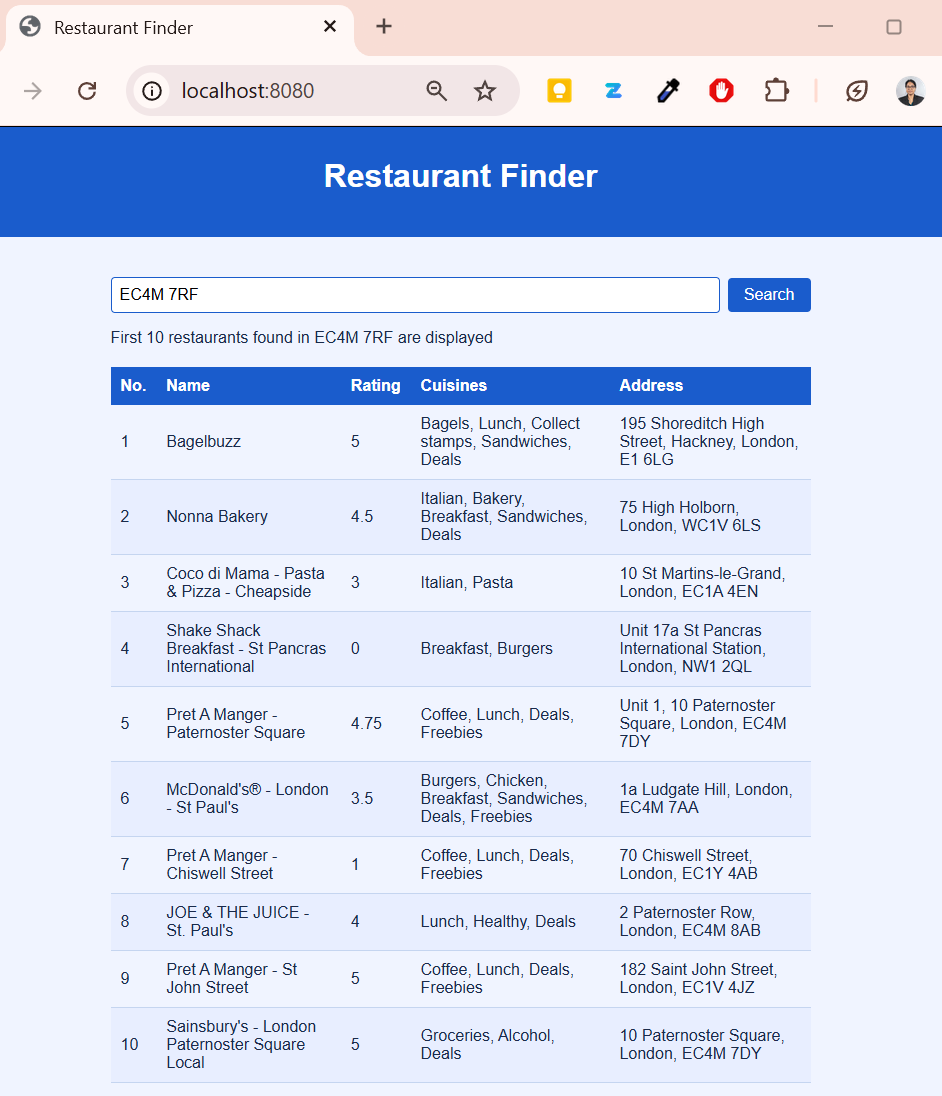
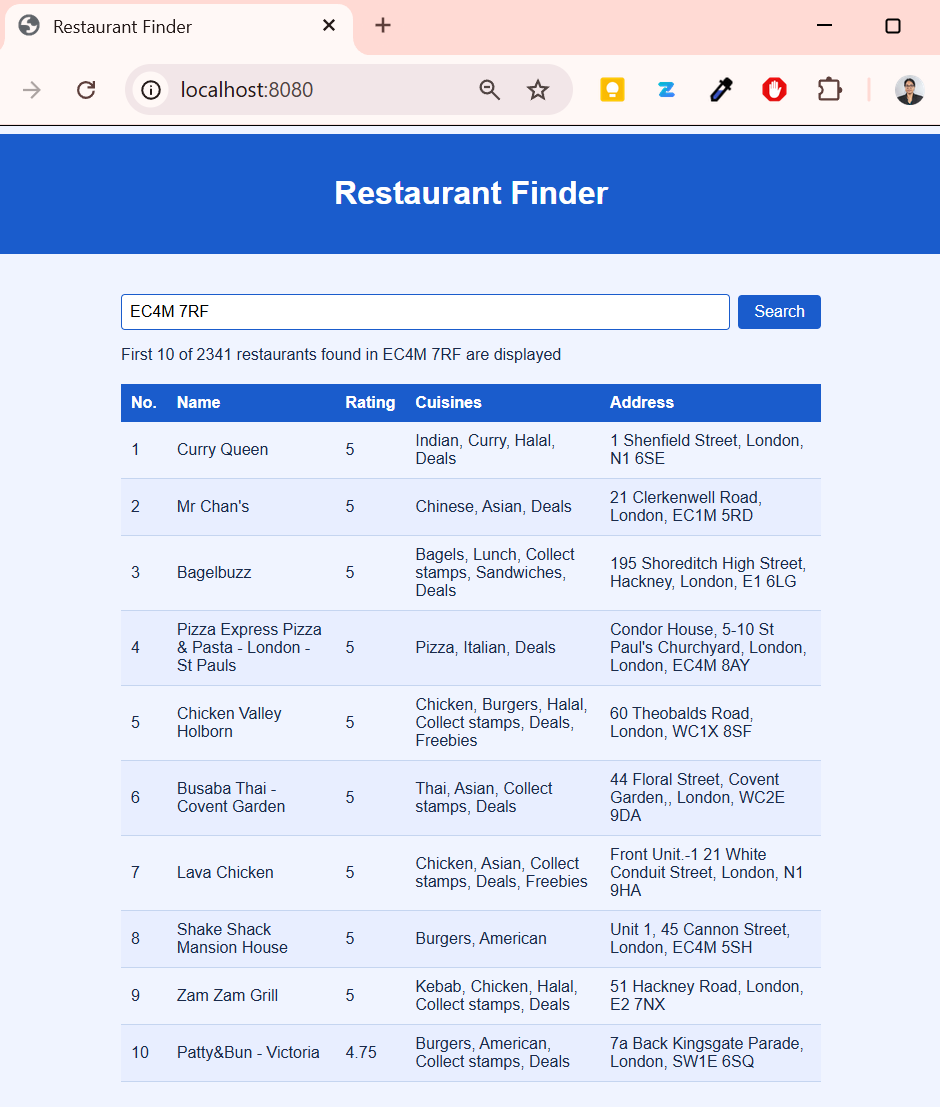
Added RestaurantResponse to return total count for accurate display

diff --git a/src/main/resources/static/app.js b/src/main/resources/static/app.js
@@ -22,15 +22,17 @@ async function performSearch() {
             results.textContent = '';
             return;
         }
-        const restaurants = await res.json();
+        const { restaurants, total } = await res.json();
 
         if (restaurants.length === 0) {
             results.textContent = 'No restaurants found.';
             return;
         }
-        let html = restaurants.length < 10
-            ? `<p>All ${restaurants.length} restaurants found in ${postcode.toUpperCase()} are displayed</p>`
-            : `<p>First 10 restaurants found in ${postcode.toUpperCase()} are displayed</p>`;
+        const label = total === 1 ? 'restaurant' : 'restaurants';
+
+        let html = restaurants.length < total
+            ? `<p>First ${restaurants.length} of ${total} restaurants found in ${postcode.toUpperCase()} are displayed</p>`
+            : `<p>All ${total} ${label} found in ${postcode.toUpperCase()} are displayed</p>`;
         html += '<table><thead><tr><th>No.</th><th>Name</th><th>Rating</th><th>Cuisines</th><th>Address</th></tr></thead><tbody>';
 
         for (let i = 0; i < restaurants.length; i++) {

diff --git a/src/test/java/dev/sankha/restaurant_finder/service/RestaurantServiceTest.java b/src/test/java/dev/sankha/restaurant_finder/service/RestaurantServiceTest.java
@@ -6,6 +6,7 @@ import dev.sankha.restaurant_finder.model.api.Cuisine;
 import dev.sankha.restaurant_finder.model.api.Rating;
 import dev.sankha.restaurant_finder.model.api.Restaurant;
 import dev.sankha.restaurant_finder.model.dto.RestaurantDTO;
+import dev.sankha.restaurant_finder.model.dto.RestaurantResponse;
 import org.junit.jupiter.api.Test;
 
 import java.util.List;
@@ -31,41 +32,41 @@ class RestaurantServiceTest {
     // Verifies the service returns all restaurants the client provides
     @Test
     void returnsAllRestaurantsFromClient() {
-        List<RestaurantDTO> result = serviceWith(List.of(
+        RestaurantResponse response = serviceWith(List.of(
                 restaurant("Pizza Place"),
                 restaurant("Burger Shop"),
                 restaurant("Sushi World")
         )).getRestaurants("EC4M 7RF");
 
-        assertEquals(3, result.size());
+        assertEquals(3, response.restaurants().size());
     }
 
     // Verifies the service handles an empty response without errors
     @Test
     void returnsEmptyWhenClientReturnsEmpty() {
-        assertTrue(serviceWith(List.of()).getRestaurants("CT1 2EH").isEmpty());
+        assertTrue(serviceWith(List.of()).getRestaurants("CT1 2EH").restaurants().isEmpty());
     }
 
     // Verifies the restaurant name is correctly mapped to the DTO
     @Test
     void returnsSingleRestaurantByName() {
-        List<RestaurantDTO> result = serviceWith(List.of(
+        RestaurantResponse response = serviceWith(List.of(
                 restaurant("Noodle House")
         )).getRestaurants("EC4M 7RF");
 
-        assertEquals("Noodle House", result.get(0).name());
+        assertEquals("Noodle House", response.restaurants().get(0).name());
     }
 
     // Verifies the service does not reorder restaurants returned by the client
     @Test
     void preservesOrderOfRestaurantsFromClient() {
-        List<RestaurantDTO> result = serviceWith(List.of(
+        RestaurantResponse response = serviceWith(List.of(
                 restaurant("Alpha"),
                 restaurant("Beta"),
                 restaurant("Gamma")
         )).getRestaurants("EC4M 7RF");
 
-        List<String> names = result.stream().map(RestaurantDTO::name).toList();
+        List<String> names = response.restaurants().stream().map(RestaurantDTO::name).toList();
         assertEquals(List.of("Alpha", "Beta", "Gamma"), names);
     }
 
@@ -76,7 +77,7 @@ class RestaurantServiceTest {
                 List.of(new Cuisine("Italian"), new Cuisine("Pizza")),
                 new Address("London", "1 High Street", "EC4M 7RF"));
 
-        RestaurantDTO dto = serviceWith(List.of(r)).getRestaurants("EC4M").get(0);
+        RestaurantDTO dto = serviceWith(List.of(r)).getRestaurants("EC4M").restaurants().get(0);
 
         assertEquals(List.of("Italian", "Pizza"), dto.cuisines());
     }
@@ -88,7 +89,7 @@ class RestaurantServiceTest {
                 List.of(new Cuisine("Japanese")),
                 new Address("London", "2 Low Street", "EC4M 7RF"));
 
-        RestaurantDTO dto = serviceWith(List.of(r)).getRestaurants("EC4M 7RF").get(0);
+        RestaurantDTO dto = serviceWith(List.of(r)).getRestaurants("EC4M 7RF").restaurants().get(0);
 
         assertEquals(4.7, dto.rating());
     }
@@ -100,7 +101,7 @@ class RestaurantServiceTest {
                 List.of(new Cuisine("Japanese")),
                 new Address("Canterbury", "53 St Peter St", "CT1 2BE"));
 
-        RestaurantDTO dto = serviceWith(List.of(r)).getRestaurants("CT1 2BE").get(0);
+        RestaurantDTO dto = serviceWith(List.of(r)).getRestaurants("CT1 2BE").restaurants().get(0);
 
         assertEquals("53 St Peter St, Canterbury, CT1 2BE", dto.address());
     }
@@ -112,34 +113,35 @@ class RestaurantServiceTest {
                 List.of(),
                 new Address("London", "10 Bread St", "EC4M 7RF"));
 
-        RestaurantDTO dto = serviceWith(List.of(r)).getRestaurants("EC4M 7RF").get(0);
+        RestaurantDTO dto = serviceWith(List.of(r)).getRestaurants("EC4M 7RF").restaurants().get(0);
 
         assertTrue(dto.cuisines().isEmpty());
     }
 
-    // Verifies only the first 10 restaurants are returned when the client provides 11
+    // Verifies only the first 10 restaurants are returned when the client provides 11,
+    // and total reflects the full count before limiting
     @Test
     void returnsOnlyFirstTenWhenClientProvidesEleven() {
         List<Restaurant> eleven = IntStream.rangeClosed(1, 11)
                 .mapToObj(i -> restaurant("Restaurant " + i))
                 .toList();
 
-        List<RestaurantDTO> result = serviceWith(eleven).getRestaurants("EC4M 7RF");
-
-        assertEquals(10, result.size());
+        RestaurantResponse response = serviceWith(eleven).getRestaurants("EC4M 7RF");
+        assertEquals(11, response.total());
+        assertEquals(10, response.restaurants().size());
     }
 
-    // Verifies all restaurants are returned when the client provides fewer than 10
+    // Verifies all restaurants are returned when the client provides fewer than or equal to 10,
+    // and total matches the actual count
     @Test
     void returnsAllWhenLessThanTen() {
         List<Restaurant> seven = IntStream.rangeClosed(1, 7)
                 .mapToObj(i -> restaurant("Restaurant " + i))
                 .toList();
 
-        List<RestaurantDTO> result = serviceWith(seven).getRestaurants("EC4M 7RF");
-
-        assertEquals(7, result.size());
+        RestaurantResponse response = serviceWith(seven).getRestaurants("EC4M 7RF");
+        assertEquals(7, response.total());
+        assertEquals(7, response.restaurants().size());
     }
-
 
 }

diff --git a/src/main/java/dev/sankha/restaurant_finder/service/RestaurantService.java b/src/main/java/dev/sankha/restaurant_finder/service/RestaurantService.java
@@ -4,6 +4,7 @@ import dev.sankha.restaurant_finder.client.RestaurantClient;
 import dev.sankha.restaurant_finder.model.api.Cuisine;
 import dev.sankha.restaurant_finder.model.api.Restaurant;
 import dev.sankha.restaurant_finder.model.dto.RestaurantDTO;
+import dev.sankha.restaurant_finder.model.dto.RestaurantResponse;
 import org.slf4j.Logger;
 import org.slf4j.LoggerFactory;
 import org.springframework.stereotype.Service;
@@ -19,13 +20,14 @@ public class RestaurantService {
         this.restaurantClient = restaurantClient;
     }
 
-    public List<RestaurantDTO> getRestaurants(String postcode) {
+    public RestaurantResponse getRestaurants(String postcode) {
         log.info("RestaurantService - Fetching restaurants for postcode: {}", postcode);
-        return restaurantClient.fetchRestaurants(postcode)
-                .stream()
+        List<Restaurant> all = restaurantClient.fetchRestaurants(postcode);
+        List<RestaurantDTO> limited = all.stream()
                 .limit(10)
                 .map(this::toDTO)
                 .toList();
+        return new RestaurantResponse(limited, all.size());
     }
 
     private RestaurantDTO toDTO(Restaurant restaurant) {

diff --git a/src/main/java/dev/sankha/restaurant_finder/controller/RestaurantController.java b/src/main/java/dev/sankha/restaurant_finder/controller/RestaurantController.java
@@ -1,6 +1,7 @@
 package dev.sankha.restaurant_finder.controller;
 
 import dev.sankha.restaurant_finder.model.dto.RestaurantDTO;
+import dev.sankha.restaurant_finder.model.dto.RestaurantResponse;
 import dev.sankha.restaurant_finder.service.RestaurantService;
 import org.slf4j.Logger;
 import org.slf4j.LoggerFactory;
@@ -20,11 +21,11 @@ public class RestaurantController {
         this.restaurantService = restaurantService;
     }
     @GetMapping("/restaurants/{postcode}")
-    public List<RestaurantDTO> getRestaurantsByPostcode(@PathVariable String postcode) {
+    public RestaurantResponse getRestaurantsByPostcode(@PathVariable String postcode) {
         log.info("RestaurantController - Received request for restaurants in postcode: {}", postcode);
-        List<RestaurantDTO> restaurants = restaurantService.getRestaurants(postcode);
-        displayConsole(restaurants, postcode);
-        return restaurants;
+        RestaurantResponse response = restaurantService.getRestaurants(postcode);
+        displayConsole(response.restaurants(), postcode);
+        return response;
     }
 
     private void displayConsole(List<RestaurantDTO> restaurants, String postcode) {

diff --git a/src/main/java/dev/sankha/restaurant_finder/model/dto/RestaurantResponse.java b/src/main/java/dev/sankha/restaurant_finder/model/dto/RestaurantResponse.java
@@ -1,0 +1,7 @@
+package dev.sankha.restaurant_finder.model.dto;
+
+import java.util.List;
+
+public record RestaurantResponse(List<RestaurantDTO> restaurants,
+                                 int total) {
+}

diff --git a/README.md b/README.md
@@ -13,7 +13,7 @@ Built as part of the Just Eat Takeaway Early Careers Software Engineering Progra
 **Acceptance criteria:**
 - Given a valid UK postcode, the application displays up to 10 restaurants
 - Each restaurant shows its name, cuisines, rating (as a number), and address
-- Given a postcode with no restaurants, the application shows a clear "no results" message
+- Given a postcode with no restaurants, the application shows a clear "No restaurants found." message
 - Given an invalid or failed request, the application shows a meaningful error message
 - Postcodes entered with or without spaces are both handled correctly
 
@@ -115,7 +115,7 @@ Example postcodes to try: `EC4M 7RF`, `CT1 2EH`, `SW1A 1AA`, `BS1 4DJ`, `M16 0RA
 ```
 No restaurants found.
 ```
-**If fewer than 10 restaurants are found :**
+**If fewer than or equal to 10 restaurants are found :**
 
 All results are shown.
 
@@ -143,34 +143,34 @@ Example:
 curl http://localhost:8080/restaurants/EC4M7RF
 ```
 
-Example response:
+Example response (showing 2 of 10 restaurant results):
 ```json
-[
+{
+  "restaurants": [
     {
-        "name": "Bagelbuzz",
-        "cuisines": [
-            "Bagels",
-            "Lunch",
-            "Collect stamps",
-            "Sandwiches",
-            "Deals"
-        ],
-        "rating": 5.0,
-        "address": "195 Shoreditch High Street, Hackney, London, E1 6LG"
+      "name": "Curry Queen",
+      "cuisines": [
+        "Indian",
+        "Curry",
+        "Halal",
+        "Deals"
+      ],
+      "rating": 5.0,
+      "address": "1 Shenfield Street, London, N1 6SE"
     },
     {
-        "name": "Nonna Bakery",
-        "cuisines": [
-            "Italian",
-            "Bakery",
-            "Breakfast",
-            "Sandwiches",
-            "Deals"
-        ],
-        "rating": 4.5,
-        "address": "75 High Holborn, London, WC1V 6LS"
+      "name": "Mr Chan's",
+      "cuisines": [
+        "Chinese",
+        "Asian",
+        "Deals"
+      ],
+      "rating": 5.0,
+      "address": "21 Clerkenwell Road, London, EC1M 5RD"
     }
-]
+    ],
+  "total": 2341
+}
 ```
 
 ---
@@ -194,8 +194,9 @@ src/
 │   │   │   │   ├── Rating.java
 │   │   │   │   ├── Cuisine.java
 │   │   │   │   └── Address.java
-│   │   │   └── dto/                           → Clean output model
-│   │   │       └── RestaurantDTO.java
+│   │   │   └── dto/                           → Clean output models
+│   │   │       ├── RestaurantDTO.java
+│   │   │       └── RestaurantResponse.java
 │   │   └── service/
 │   │       └── RestaurantService.java         → Maps raw data to DTO, limits to 10
 │   └── resources/
@@ -232,7 +233,7 @@ No Mockito or additional test framework mocking is needed.
 
 The raw API response contains many fields that are not needed (e.g. `logoUrl`, `driveDistanceMeters`, `isOpenNowForDelivery`). Two separate model packages are used:
 - `model/api/` — mirrors the JET API JSON structure, uses `@JsonIgnoreProperties(ignoreUnknown = true)` to safely ignore unmapped fields
-- `model/dto/` — a clean, flat `RestaurantDTO` with only the four required fields: name, cuisines, rating, address
+- `model/dto/` — contains `RestaurantDTO` — a clean, flat record with the four required fields: name, cuisines, rating, address and `RestaurantResponse` — wraps the limited list of `RestaurantDTO` and the total count of restaurants available, enabling the frontend to display an accurate message.
 
 This means the controller and web UI never see raw API objects — they only ever receive clean, pre-formatted data.
 
